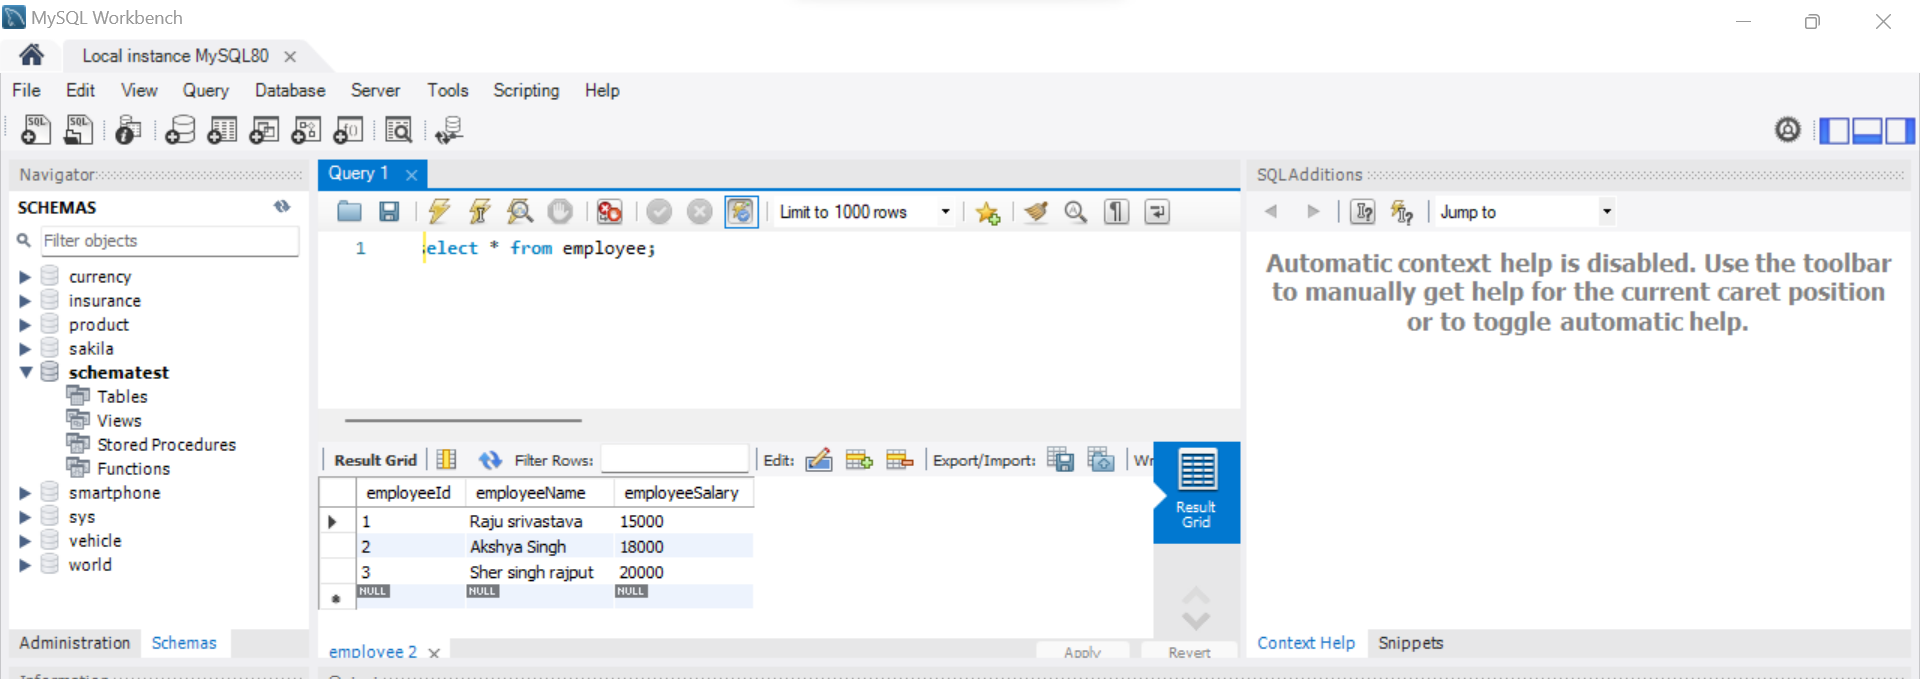
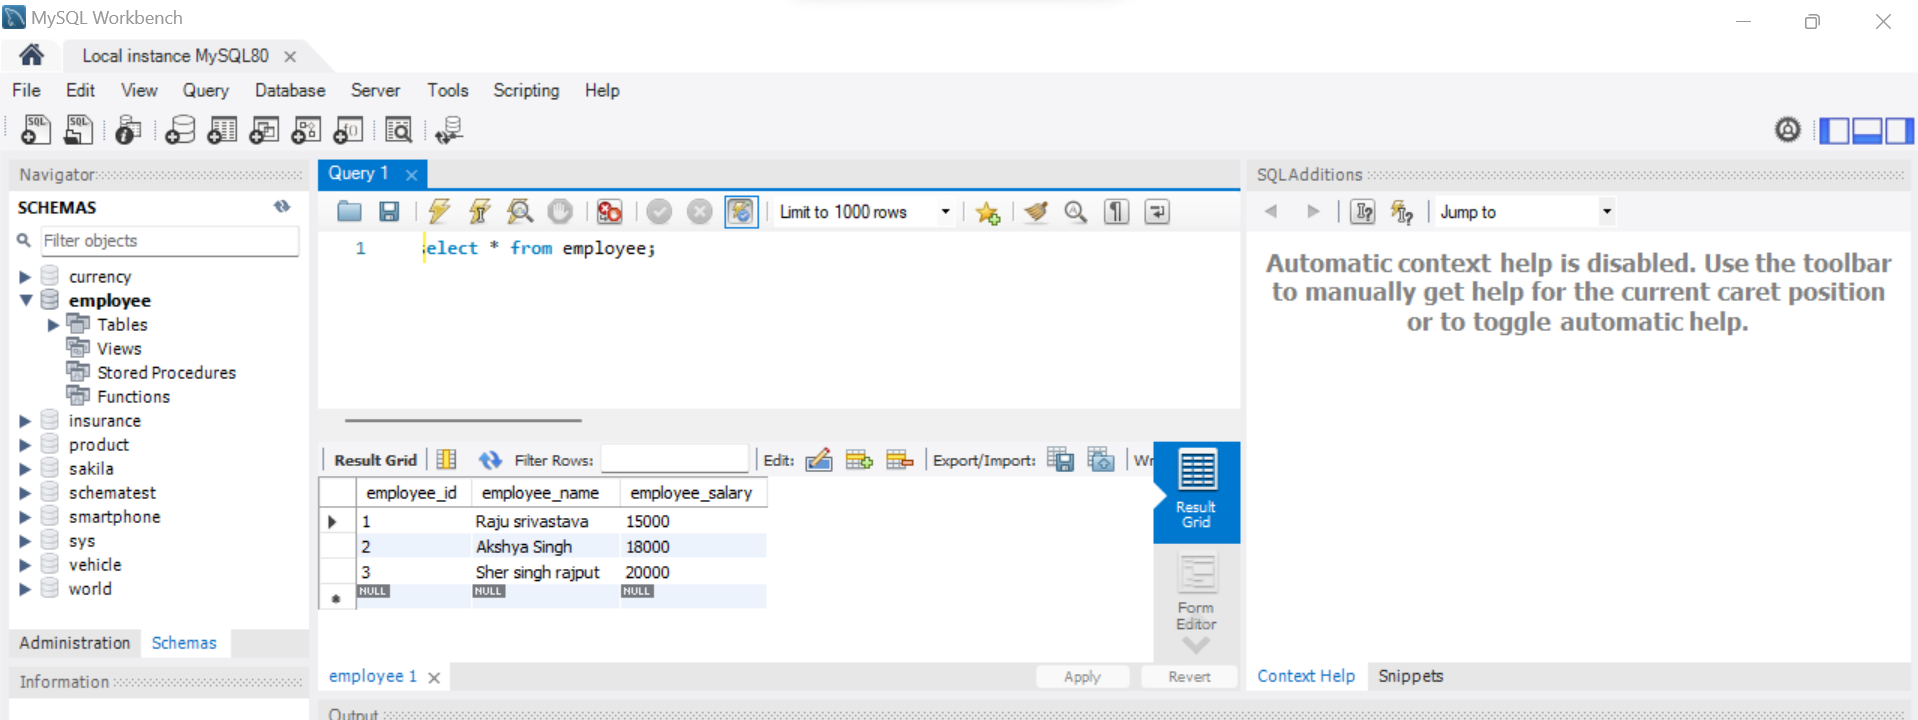
Added Q2Om with spring boot employee project.

diff --git a/SpringEmployeeProject/src/main/java/com/kpi/Entity/Employee.java b/SpringEmployeeProject/src/main/java/com/kpi/Entity/Employee.java
@@ -1,5 +1,6 @@
 package com.kpi.Entity;
 
+import javax.persistence.Column;
 import javax.persistence.Entity;
 import javax.persistence.GeneratedValue;
 import javax.persistence.Id;
@@ -18,9 +19,13 @@ public class Employee {
 
 	@Id
 	@GeneratedValue
+	@Column(name = "employeeId")
 	private int employeeId;
 	
+	@Column(name = "employeeName")
 	private String employeeName;
-	private String employeeSalary;
+	
+	@Column(name = "employeeSalary")
+	private int employeeSalary;
 	
 }
